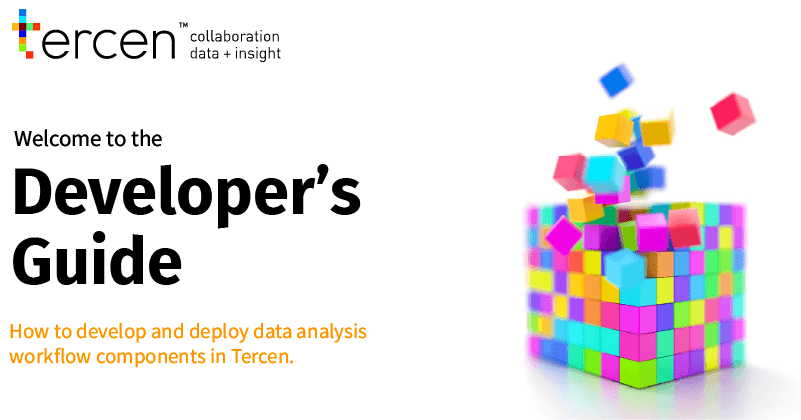
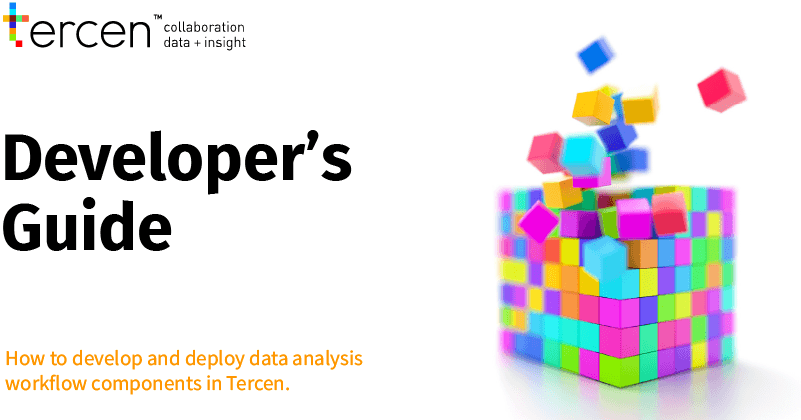
updated style and cover image

diff --git a/docs/style.css b/docs/style.css
@@ -1,7 +1,13 @@
 @import url('https://fonts.googleapis.com/css?family=Fira+Sans');
+@import url('https://fonts.googleapis.com/css?family=Source+Sans');
 
-p, div, li, h1, h2, h3 {
+p, div, li {
+  font-family: 'Source Sans', sans-serif;
+}
+
+h1, h2, h3 {
   font-family: 'Fira Sans', sans-serif;
+  font-weight: bold;
 }
 
 p.caption {

diff --git a/source/style.css b/source/style.css
@@ -1,7 +1,13 @@
 @import url('https://fonts.googleapis.com/css?family=Fira+Sans');
+@import url('https://fonts.googleapis.com/css?family=Source+Sans');
 
-p, div, li, h1, h2, h3 {
+p, div, li {
+  font-family: 'Source Sans', sans-serif;
+}
+
+h1, h2, h3 {
   font-family: 'Fira Sans', sans-serif;
+  font-weight: bold;
 }
 
 p.caption {
